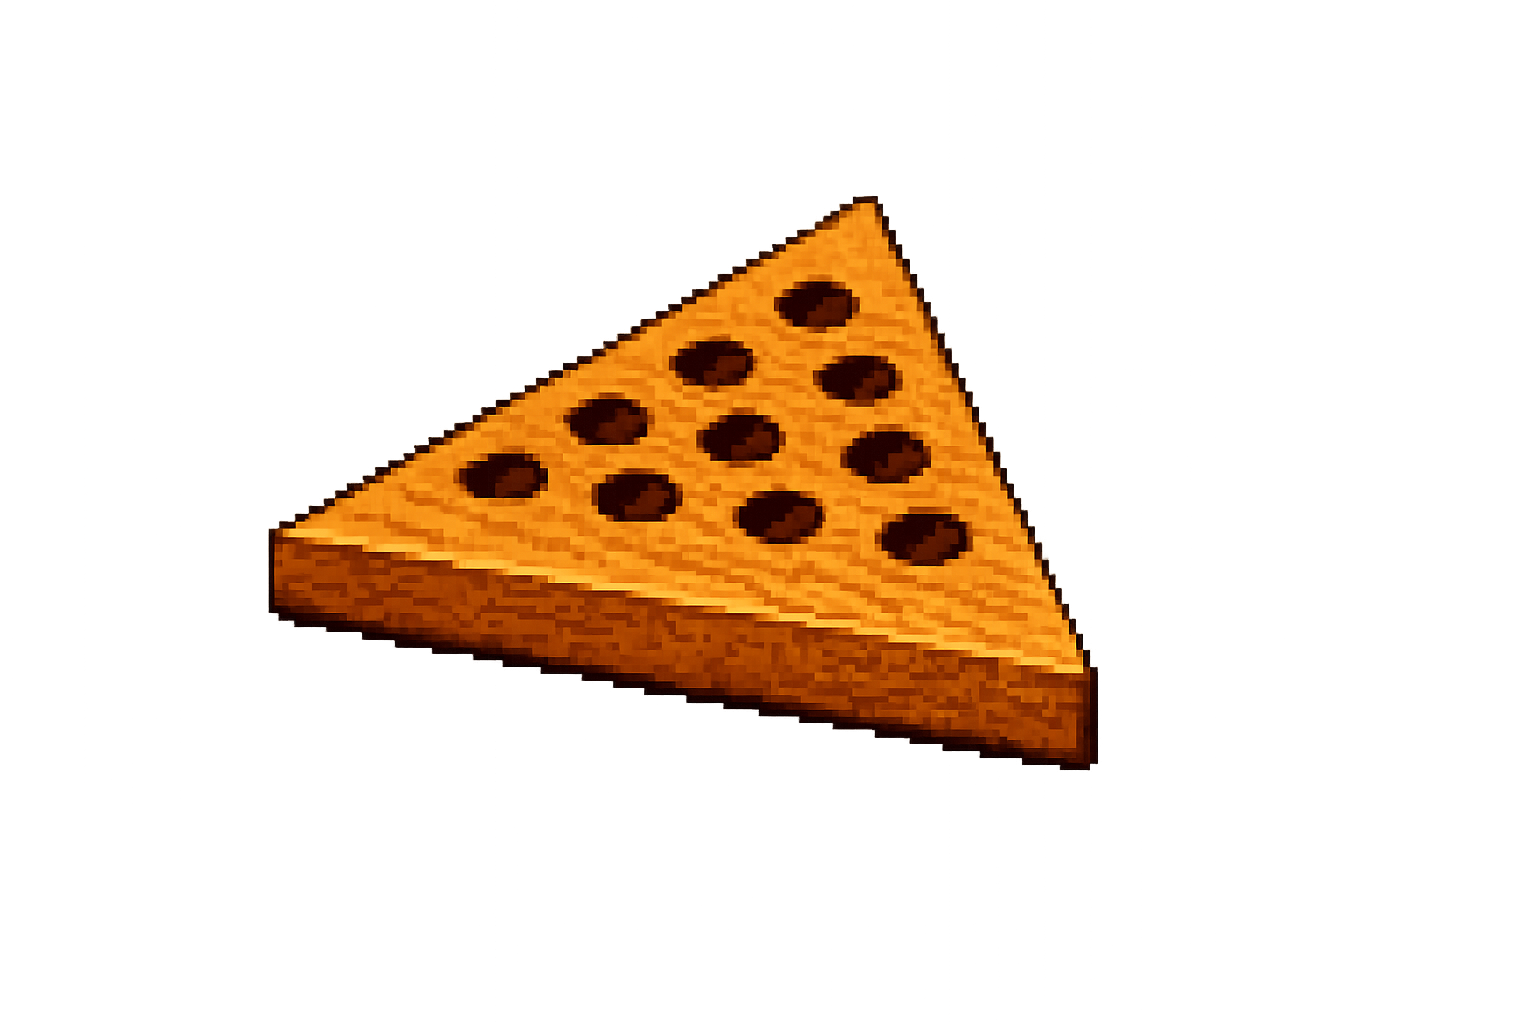
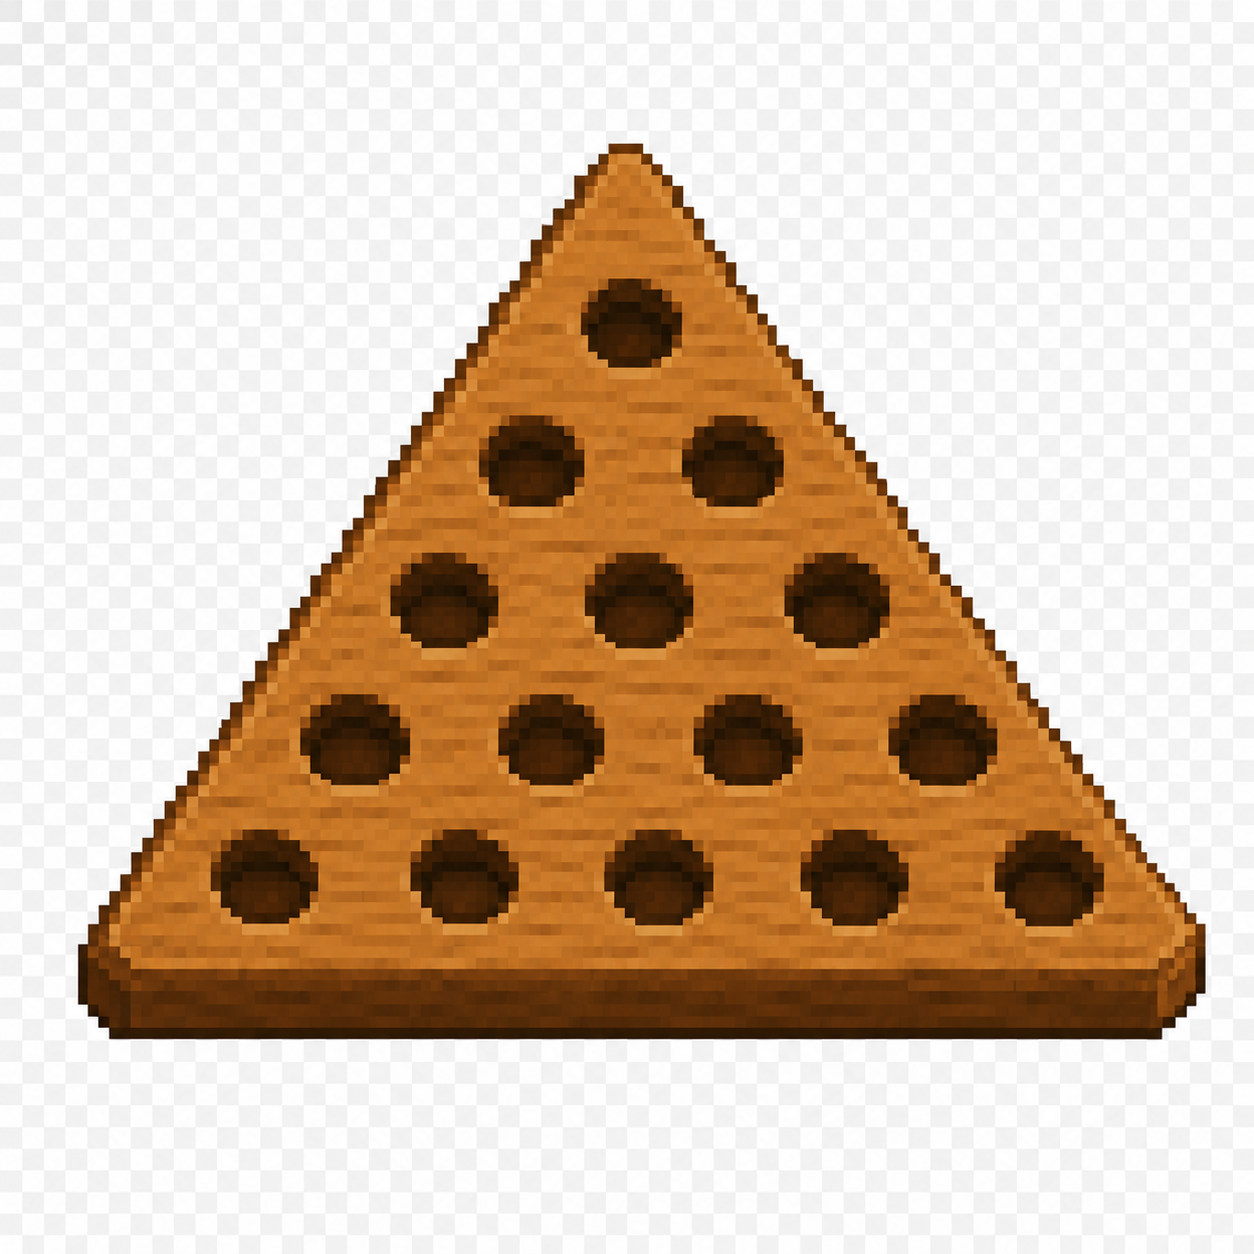
Use new board/peg images with calibrated hole positions and background keying
Replace placeholder PNGs with pixel-art board and 5x5 peg sprite sheet.
Board hole positions measured from actual pixel data and stored as layout
constants (PAD_TOP=139, SPACING=85, ROW_H=60, DRIFT=3 for the isometric
asymmetry). Both images were saved as RGB PNG without alpha; a canvas-based
keyer runs once at load time to make the near-white background transparent.
Window widened to 580px to accommodate the 542px board display.

https://claude.ai/code/session_01G8Jrp9EdXLJpYAfpWLtbqC

diff --git a/src/experiences/PegSolitaire/PegSolitaire.tsx b/src/experiences/PegSolitaire/PegSolitaire.tsx
@@ -3,24 +3,52 @@ import { useWindowMenus } from "../../components/Window/useWindowMenus";
 import type { MenuBarMenu } from "../../components/MenuBar/MenuBar";
 import "./PegSolitaire.css";
 
-// ── Layout ─────────────────────────────────────────────────────────────────────
-// Board image is 1536×1024 (3:2). We display at 1/4 scale = 384×256.
-// Hole positions are calibrated to the pixel-art board image.
-const BOARD_W  = 384;
-const BOARD_H  = 256;
-const PAD_TOP  = 44;   // y of top-hole centre in display coords
-const SPACING  = 57;   // horizontal gap between hole centres
-const ROW_H    = 50;   // vertical gap between rows
-const PEG_W    = 48;   // displayed peg width  (CSS sprite)
-const PEG_H    = 52;   // displayed peg height (sprite is taller than wide)
-const CLICK    = 44;   // hit-area diameter per hole
+// ── Background-keyer ────────────────────────────────────────────────────────────
+// Both PNGs were saved without an alpha channel; their backgrounds are near-white
+// (~245-255 on all channels). Key them out at load time via an offscreen canvas.
+function useKeyedImage(src: string): string {
+  const [url, setUrl] = useState("");
+  useEffect(() => {
+    const img = new Image();
+    img.onload = () => {
+      const canvas = document.createElement("canvas");
+      canvas.width = img.width;
+      canvas.height = img.height;
+      const ctx = canvas.getContext("2d")!;
+      ctx.drawImage(img, 0, 0);
+      const imageData = ctx.getImageData(0, 0, canvas.width, canvas.height);
+      const d = imageData.data;
+      for (let i = 0; i < d.length; i += 4) {
+        const lo = Math.min(d[i], d[i + 1], d[i + 2]);
+        const hi = Math.max(d[i], d[i + 1], d[i + 2]);
+        // Near-neutral bright pixel → transparent
+        if (lo > 218 && hi - lo < 28) d[i + 3] = 0;
+      }
+      ctx.putImageData(imageData, 0, 0);
+      setUrl(canvas.toDataURL("image/png"));
+    };
+    img.src = src;
+  }, [src]);
+  return url;
+}
 
-// Sprite sheet: 1254×1254, 5 cols × 5 rows → ~250×250 px per frame
+// ── Layout (calibrated from pixel measurements of the 1254×1254 board image) ──
+const BOARD_W  = 542;   // display size (scale = 542/1254 ≈ 0.432)
+const BOARD_H  = 542;
+const PAD_TOP  = 139;   // y of Row-0 hole centre in display coords
+const SPACING  = 85;    // horizontal gap between adjacent hole centres
+const ROW_H    = 60;    // vertical gap between row centres
+// The board image is slightly asymmetric (isometric perspective):
+// centre-x drifts ~3 px rightward per row.
+const DRIFT    = 3;
+
+const PEG_SIZE = 72;    // square sprite cell at display scale
+const CLICK    = 56;    // hit-area diameter
+
+// Sprite sheet: 5 cols × 5 rows inside 1254×1254
 const SHEET_COLS = 5;
 const SHEET_ROWS = 5;
-// Scale the 1254px sheet down to PEG_W*SHEET_COLS wide when displaying
-const SHEET_DISPLAY_W = PEG_W * SHEET_COLS;   // 240
-const SHEET_DISPLAY_H = PEG_H * SHEET_ROWS;   // 260
+const SHEET_DISP = PEG_SIZE * SHEET_COLS;   // 360px wide / tall
 
 // ── Types ──────────────────────────────────────────────────────────────────────
 const ROWS = 5;
@@ -29,8 +57,8 @@ const DIRS: [number, number][] = [[0,1],[0,-1],[-1,-1],[-1,0],[1,0],[1,1]];
 type Board    = boolean[][];
 type Pos      = { row: number; col: number };
 type Phase    = "setup" | "playing" | "gameover";
-type FramePeg = [number, number];          // [spriteCol, spriteRow]
-type FrameMap = (FramePeg | null)[][];
+type Frame    = [number, number];   // [spriteCol, spriteRow]
+type FrameMap = (Frame | null)[][];
 
 interface JumpAnim { from: Pos; over: Pos; to: Pos }
 
@@ -39,8 +67,9 @@ function posKey(r: number, c: number) { return `${r},${c}`; }
 function isValid(r: number, c: number) { return r >= 0 && r < ROWS && c >= 0 && c <= r; }
 
 function holeCenter(row: number, col: number): { x: number; y: number } {
+  const cx = BOARD_W / 2 + row * DRIFT;
   return {
-    x: BOARD_W / 2 - row * (SPACING / 2) + col * SPACING,
+    x: cx - row * (SPACING / 2) + col * SPACING,
     y: PAD_TOP + row * ROW_H,
   };
 }
@@ -54,7 +83,7 @@ function makeFrameMap(): FrameMap {
     Array.from({ length: r + 1 }, () => [
       Math.floor(Math.random() * SHEET_COLS),
       Math.floor(Math.random() * SHEET_ROWS),
-    ] as FramePeg)
+    ] as Frame)
   );
 }
 
@@ -89,6 +118,9 @@ function rating(n: number) {
 interface Props { onQuit?: () => void }
 
 export default function PegSolitaire({ onQuit }: Props) {
+  const boardSrc = useKeyedImage("/peg-solitaire/board.png");
+  const pegsSrc  = useKeyedImage("/peg-solitaire/pegs.png");
+
   const [board,    setBoard]    = useState<Board>(makeFullBoard);
   const [frames,   setFrames]   = useState<FrameMap>(makeFrameMap);
   const [phase,    setPhase]    = useState<Phase>("setup");
@@ -100,9 +132,7 @@ export default function PegSolitaire({ onQuit }: Props) {
   useEffect(() => { boardRef.current  = board;  }, [board]);
   useEffect(() => { framesRef.current = frames; }, [frames]);
 
-  // Ref for the flying-peg container – position is animated via direct DOM
   const flyRef = useRef<HTMLDivElement>(null);
-
   const pegCount = useMemo(() => countPegs(board), [board]);
 
   const landings = useMemo<Set<string>>(() => {
@@ -112,7 +142,7 @@ export default function PegSolitaire({ onQuit }: Props) {
     );
   }, [board, selected, phase, jump]);
 
-  // ── Jump animation ───────────────────────────────────────────────────────────
+  // ── Jump animation ────────────────────────────────────────────────────────────
   useEffect(() => {
     if (!jump) return;
     const dest = holeCenter(jump.to.row, jump.to.col);
@@ -129,14 +159,12 @@ export default function PegSolitaire({ onQuit }: Props) {
 
     const timer = window.setTimeout(() => {
       const { from, over, to } = jump;
-
       const nb = boardRef.current.map(r => [...r]);
       nb[from.row][from.col] = false;
       nb[over.row][over.col] = false;
       nb[to.row][to.col]     = true;
 
-      // Move the frame from the jumping peg to its new position
-      const nf = framesRef.current.map(r => r.map(v => v ? [...v] as FramePeg : null));
+      const nf = framesRef.current.map(r => r.map(v => v ? [...v] as Frame : null));
       nf[to.row][to.col]     = nf[from.row][from.col];
       nf[from.row][from.col] = null;
       nf[over.row][over.col] = null;
@@ -155,14 +183,14 @@ export default function PegSolitaire({ onQuit }: Props) {
     };
   }, [jump]);
 
-  // ── Clicks ───────────────────────────────────────────────────────────────────
+  // ── Click handler ─────────────────────────────────────────────────────────────
   const handleClick = useCallback((row: number, col: number) => {
     if (jump) return;
 
     if (phase === "setup") {
       const nb = board.map(r => [...r]);
       nb[row][col] = false;
-      const nf = frames.map(r => r.map(v => v ? [...v] as FramePeg : null));
+      const nf = frames.map(r => r.map(v => v ? [...v] as Frame : null));
       nf[row][col] = null;
       setBoard(nb);
       setFrames(nf);
@@ -194,7 +222,7 @@ export default function PegSolitaire({ onQuit }: Props) {
     setJump(null);
   }, []);
 
-  // ── Menus ────────────────────────────────────────────────────────────────────
+  // ── Menus ─────────────────────────────────────────────────────────────────────
   const menus = useMemo<MenuBarMenu[]>(() => {
     const items: MenuBarMenu["items"] = [{ label: "New Game", onClick: newGame }];
     if (onQuit) { items.push({ separator: true }); items.push({ label: "Exit", onClick: onQuit }); }
@@ -202,20 +230,20 @@ export default function PegSolitaire({ onQuit }: Props) {
   }, [newGame, onQuit]);
   useWindowMenus(menus);
 
-  // ── Sprite helper ─────────────────────────────────────────────────────────────
-  function pegStyle(frame: FramePeg): React.CSSProperties {
+  // ── Sprite style helper ───────────────────────────────────────────────────────
+  function pegStyle(frame: Frame): React.CSSProperties {
     const [sc, sr] = frame;
     return {
-      width:  PEG_W,
-      height: PEG_H,
-      backgroundImage:    "url('/peg-solitaire/pegs.png')",
-      backgroundSize:     `${SHEET_DISPLAY_W}px ${SHEET_DISPLAY_H}px`,
-      backgroundPosition: `-${sc * PEG_W}px -${sr * PEG_H}px`,
+      width:  PEG_SIZE,
+      height: PEG_SIZE,
+      backgroundImage:    pegsSrc ? `url('${pegsSrc}')` : "none",
+      backgroundSize:     `${SHEET_DISP}px ${SHEET_DISP}px`,
+      backgroundPosition: `-${sc * PEG_SIZE}px -${sr * PEG_SIZE}px`,
       backgroundRepeat:   "no-repeat",
     };
   }
 
-  // ── Render ───────────────────────────────────────────────────────────────────
+  // ── Render ────────────────────────────────────────────────────────────────────
   const fromKey = jump ? posKey(jump.from.row, jump.from.col) : "";
   const overKey = jump ? posKey(jump.over.row, jump.over.col) : "";
   const flyFrame = jump ? frames[jump.from.row][jump.from.col] : null;
@@ -233,16 +261,10 @@ export default function PegSolitaire({ onQuit }: Props) {
       </div>
 
       <div className="pegsol__board" style={{ width: BOARD_W, height: BOARD_H }}>
-        {/* Board image */}
-        <img
-          src="/peg-solitaire/board.png"
-          className="pegsol__board-img"
-          alt=""
-          aria-hidden
-          draggable={false}
-        />
+        {boardSrc && (
+          <img src={boardSrc} className="pegsol__board-img" alt="" aria-hidden draggable={false} />
+        )}
 
-        {/* Holes + pegs */}
         {board.map((row, r) =>
           row.map((hasPeg, c) => {
             const { x, y } = holeCenter(r, c);
@@ -261,16 +283,14 @@ export default function PegSolitaire({ onQuit }: Props) {
                          cursor: (!jump && (hasPeg || isLand)) ? "pointer" : "default" }}
                 onClick={() => handleClick(r, c)}
               >
-                {/* Landing glow */}
                 {isLand && <div className="pegsol__glow" />}
 
-                {/* Peg sprite */}
                 {hasPeg && !isFrom && frame && (
                   <div
                     className={[
                       "pegsol__peg",
-                      isSel             ? "pegsol__peg--sel"  : "",
-                      isOver && jump    ? "pegsol__peg--gone" : "",
+                      isSel          ? "pegsol__peg--sel"  : "",
+                      isOver && jump ? "pegsol__peg--gone" : "",
                     ].filter(Boolean).join(" ")}
                     style={pegStyle(frame)}
                   />
@@ -280,15 +300,13 @@ export default function PegSolitaire({ onQuit }: Props) {
           })
         )}
 
-        {/* Flying peg */}
         {jump && flyFrame && (() => {
           const fp = holeCenter(jump.from.row, jump.from.col);
           return (
             <div
               ref={flyRef}
               className="pegsol__spot pegsol__spot--fly"
-              style={{ left: fp.x - CLICK/2, top: fp.y - CLICK/2,
-                       width: CLICK, height: CLICK }}
+              style={{ left: fp.x - CLICK/2, top: fp.y - CLICK/2, width: CLICK, height: CLICK }}
             >
               <div className="pegsol__peg pegsol__peg--fly" style={pegStyle(flyFrame)} />
             </div>

diff --git a/src/experiences/PegSolitaire/PegSolitaire.css b/src/experiences/PegSolitaire/PegSolitaire.css
@@ -18,7 +18,7 @@
 
 .pegsol__rating { color: #cc4400; }
 
-/* Board container */
+/* Board container — transparent so keyed board image floats over win95 gray */
 .pegsol__board {
   position: relative;
 }
@@ -42,7 +42,7 @@
   justify-content: center;
 }
 
-/* Flying peg container – transitions position, no pointer events */
+/* Flying peg container */
 .pegsol__spot--fly {
   pointer-events: none;
   z-index: 20;
@@ -52,8 +52,8 @@
 /* ── Landing glow ───────────────────────────────────────────────────────────── */
 .pegsol__glow {
   position: absolute;
-  width: 32px;
-  height: 18px;
+  width: 36px;
+  height: 20px;
   border-radius: 50%;
   background: radial-gradient(ellipse, rgba(255,200,50,0.9) 0%, rgba(255,140,0,0.5) 55%, transparent 100%);
   animation: ps-glow 0.45s ease-in-out infinite alternate;
@@ -66,45 +66,39 @@
 }
 
 /* ── Peg sprite ─────────────────────────────────────────────────────────────── */
-/*
- * The sprite is displayed with position: absolute, centred on the spot,
- * then shifted upward by ELEV_SIT to look like it's sitting in the hole.
- * Box-shadow Y is tuned to keep the cast shadow near the board surface
- * regardless of elevation: shadow_Y ≈ elevation + 4.
- */
 .pegsol__peg {
   position: absolute;
   image-rendering: pixelated;
-  /* sit 10 px above hole centre; cast shadow at 10+4=14 px below the peg */
-  transform: translate(-50%, calc(-50% - 10px));
-  box-shadow: 0 14px 7px rgba(0,0,0,0.45);
+  /* Sit 12px above hole centre; cast shadow below */
+  transform: translate(-50%, calc(-50% - 12px));
+  box-shadow: 0 16px 8px rgba(0,0,0,0.40);
   transition: transform 0.13s ease, box-shadow 0.13s ease;
 }
 
-/* Selected – lift 26 px; shadow at 26+4=30 */
+/* Selected – lift 28px */
 .pegsol__peg--sel {
-  transform: translate(-50%, calc(-50% - 26px));
-  box-shadow: 0 30px 10px rgba(0,0,0,0.35);
+  transform: translate(-50%, calc(-50% - 28px));
+  box-shadow: 0 32px 10px rgba(0,0,0,0.30);
 }
 
-/* Flying – maximum lift 34 px; shadow at 34+4=38 */
+/* Flying – max lift 36px */
 .pegsol__peg--fly {
-  transform: translate(-50%, calc(-50% - 34px));
-  box-shadow: 0 38px 12px rgba(0,0,0,0.28);
+  transform: translate(-50%, calc(-50% - 36px));
+  box-shadow: 0 40px 12px rgba(0,0,0,0.22);
 }
 
-/* Jumped-over peg lifts and fades out */
+/* Jumped-over peg lifts and fades */
 .pegsol__peg--gone {
   animation: ps-vanish 0.42s ease-out forwards;
 }
 
 @keyframes ps-vanish {
-  0%   { transform: translate(-50%, calc(-50% - 10px)); opacity: 1;
-         box-shadow: 0 14px 7px rgba(0,0,0,0.45); }
-  55%  { transform: translate(-50%, calc(-50% - 30px)); opacity: 0.6;
-         box-shadow: 0 34px 10px rgba(0,0,0,0.25); }
-  100% { transform: translate(-50%, calc(-50% - 40px)); opacity: 0;
-         box-shadow: 0 44px 12px rgba(0,0,0,0.05); }
+  0%   { transform: translate(-50%, calc(-50% - 12px)); opacity: 1;
+         box-shadow: 0 16px 8px rgba(0,0,0,0.40); }
+  55%  { transform: translate(-50%, calc(-50% - 32px)); opacity: 0.6;
+         box-shadow: 0 36px 10px rgba(0,0,0,0.22); }
+  100% { transform: translate(-50%, calc(-50% - 44px)); opacity: 0;
+         box-shadow: 0 48px 12px rgba(0,0,0,0.05); }
 }
 
 /* ── Controls ───────────────────────────────────────────────────────────────── */

diff --git a/src/experiences/NsDoors97/NsDoors97.tsx b/src/experiences/NsDoors97/NsDoors97.tsx
@@ -557,7 +557,7 @@ export default function NsDoors97() {
         case "sound-recorder": content = { type: "sound-recorder" as const };                  width = 420; break;
         case "midi-editor":    content = { type: "midi-editor" as const };                     width = 860; break;
         case "chain-reaction": content = { type: "chain-reaction" as const };                  width = 540; break;
-        case "peg-solitaire":  content = { type: "peg-solitaire" as const };                   width = 430; break;
+        case "peg-solitaire":  content = { type: "peg-solitaire" as const };                   width = 580; break;
         case "experience": {
           const experience = experiences.find((e) => e.id === id)!;
           content = { type: "app-launcher", experience };
